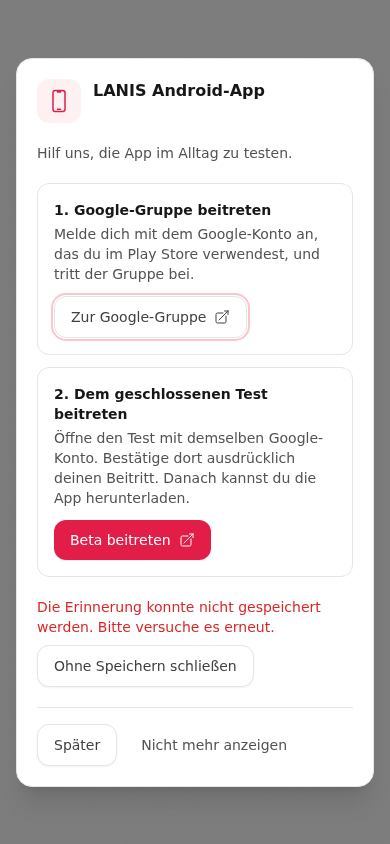
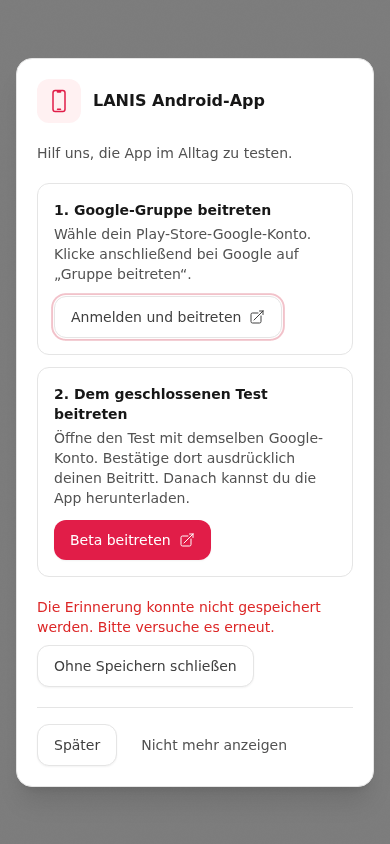
Add compact beta help card and route joining through Google account selection

diff --git a/src/components/beta/AndroidBeta.tsx b/src/components/beta/AndroidBeta.tsx
@@ -2,12 +2,12 @@ import React, { useCallback, useEffect, useRef, useState } from 'react';
 import { DevicePhoneMobileIcon, ArrowTopRightOnSquareIcon } from '@heroicons/react/24/outline';
 import { useAuth } from '../../contexts/AuthContext';
 import { androidBetaAPI, AndroidBetaState } from '../../services/api';
-import { betaPrompt, isAndroidBrowser } from '../../utils/androidBeta';
+import { betaPrompt, isAndroidBrowser, googleGroupJoinUrl } from '../../utils/androidBeta';
 
 const GROUP_URL = 'https://groups.google.com/g/lanis-beta/about';
 const JOIN_URL = 'https://play.google.com/apps/testing/de.joancode.lanis';
 
-export default function AndroidBeta() {
+export default function AndroidBeta({ manual = false }: { manual?: boolean }) {
   const { token } = useAuth();
   const [state, setState] = useState<AndroidBetaState | null>(null);
   const [error, setError] = useState('');
@@ -40,15 +40,15 @@ export default function AndroidBeta() {
   }, [load, open]);
 
   useEffect(() => {
-    if (!eligible || !state?.available) { setOpen(false); return; }
-    if (open || locallyClosed.current || !betaPrompt(state)) return;
+    if ((!manual && !eligible) || !state?.available) { setOpen(false); return; }
+    if (manual || open || locallyClosed.current || !betaPrompt(state)) return;
     const timer = window.setInterval(() => {
       const pwa = document.querySelector('pwa-install') as (HTMLElement & { isDialogHidden?: boolean }) | null;
       if (pwa?.isDialogHidden === false || document.visibilityState !== 'visible' || document.documentElement.classList.contains('onboarding-active') || document.querySelector('[role="dialog"], [role="alertdialog"], dialog[open], [aria-modal="true"]')) return;
       setOpen(true);
     }, 1500);
     return () => window.clearInterval(timer);
-  }, [eligible, state, open]);
+  }, [manual, eligible, state, open]);
 
   useEffect(() => {
     const node = dialog.current;
@@ -56,9 +56,9 @@ export default function AndroidBeta() {
     const previous = document.activeElement as HTMLElement | null;
     node.showModal();
     // Only recruitment cooldown is recorded, never group membership or Play enrollment.
-    if (token) void androidBetaAPI.change(token, 'presented').catch(() => setError('Die Erinnerung konnte nicht gespeichert werden. Bitte versuche „Später“ erneut.'));
+    if (token && !manual) void androidBetaAPI.change(token, 'presented').catch(() => setError('Die Erinnerung konnte nicht gespeichert werden. Bitte versuche „Später“ erneut.'));
     return () => { node.close(); previous?.focus(); };
-  }, [open, token]);
+  }, [open, token, manual]);
 
   function closeLocally() {
     locallyClosed.current = true;
@@ -82,8 +82,8 @@ export default function AndroidBeta() {
     <ol className="space-y-3">
       <li className="rounded-xl border border-surface-200 p-4 dark:border-surface-700">
         <h3 className="text-sm font-semibold">1. Google-Gruppe beitreten</h3>
-        <p className="mt-1 text-sm text-surface-600 dark:text-surface-400">Melde dich mit dem Google-Konto an, das du im Play Store verwendest, und tritt der Gruppe bei.</p>
-        <a className="btn btn-secondary mt-3 inline-flex items-center gap-2" href={state?.group_url || GROUP_URL} target="_blank" rel="noopener noreferrer">Zur Google-Gruppe<ArrowTopRightOnSquareIcon className="h-4 w-4" aria-hidden="true" /></a>
+        <p className="mt-1 text-sm text-surface-600 dark:text-surface-400">Wähle dein Play-Store-Google-Konto. Klicke anschließend bei Google auf „Gruppe beitreten“.</p>
+        <a className="btn btn-secondary mt-3 inline-flex items-center gap-2" href={googleGroupJoinUrl(state?.group_url || GROUP_URL)} target="_blank" rel="noopener noreferrer">Anmelden und beitreten<ArrowTopRightOnSquareIcon className="h-4 w-4" aria-hidden="true" /></a>
       </li>
       <li className="rounded-xl border border-surface-200 p-4 dark:border-surface-700">
         <h3 className="text-sm font-semibold">2. Dem geschlossenen Test beitreten</h3>
@@ -94,5 +94,17 @@ export default function AndroidBeta() {
     {error && <div role="alert" className="space-y-2 text-sm text-red-600 dark:text-red-400"><p>{error}</p><button type="button" className="btn btn-secondary" onClick={closeLocally}>Ohne Speichern schließen</button></div>}
     <div className="flex flex-wrap gap-2 border-t border-surface-200 pt-4 dark:border-surface-700"><button className="btn btn-secondary" disabled={busy} onClick={() => void dismiss('later')}>Später</button><button className="btn btn-ghost" disabled={busy} onClick={() => void dismiss('dismiss')}>Nicht mehr anzeigen</button></div>
   </div>;
-  return open ? <dialog ref={dialog} aria-labelledby="beta-dialog-title" onCancel={event => { event.preventDefault(); if (error) closeLocally(); else void dismiss('later'); }} className="m-auto max-h-[90dvh] w-[calc(100%-2rem)] max-w-md overflow-y-auto rounded-2xl border border-surface-200 bg-white p-5 text-surface-900 shadow-xl backdrop:bg-black/50 dark:border-surface-700 dark:bg-surface-900 dark:text-surface-100 sm:p-6">{content}</dialog> : null;
+  const popup = open ? <dialog ref={dialog} aria-labelledby="beta-dialog-title" onCancel={event => { event.preventDefault(); if (error) closeLocally(); else void dismiss('later'); }} className="m-auto max-h-[90dvh] w-[calc(100%-2rem)] max-w-md overflow-y-auto rounded-2xl border border-surface-200 bg-white p-5 text-surface-900 shadow-xl backdrop:bg-black/50 dark:border-surface-700 dark:bg-surface-900 dark:text-surface-100 sm:p-6">{content}</dialog> : null;
+  if (!manual) return popup;
+  return <>
+    <section className="card" aria-labelledby="beta-help-title">
+      <h3 id="beta-help-title" className="item-title">LANIS Android-App</h3>
+      <p className="mt-1 text-sm text-surface-500 dark:text-surface-400">Teste die Android-App.</p>
+      <button type="button" className="btn btn-secondary mt-4" disabled={!state?.available} onClick={() => { setError(''); setOpen(true); }}>Beta ansehen</button>
+      {!state && !error && <p role="status" className="mt-2 text-sm text-surface-500">Wird geladen…</p>}
+      {state && !state.available && <p className="mt-2 text-sm text-surface-500">Noch nicht verfügbar.</p>}
+      {error && !open && <p role="alert" className="mt-2 text-sm text-red-600 dark:text-red-400">{error} <button type="button" className="underline" onClick={() => void load()}>Erneut versuchen</button></p>}
+    </section>
+    {popup}
+  </>;
 }

diff --git a/src/components/settings/Settings.tsx b/src/components/settings/Settings.tsx
@@ -51,6 +51,7 @@ import { usePwaInstall } from '../../contexts/PwaInstallContext';
 import TimetableSettings from './TimetableSettings';
 import VertretungsplanSettings from './VertretungsplanSettings';
 import AgentsSettings from './AgentsSettings';
+import AndroidBeta from '../beta/AndroidBeta';
 import DashboardSettings from './DashboardSettings';
 import SettingsSwitch from './SettingsSwitch';
 import {
@@ -1237,6 +1238,8 @@ const Settings: React.FC = () => {
 
         </>
         )}
+
+        {section === 'help' && !isDemo && <AndroidBeta manual />}
 
         {/* App installieren */}
         {section === 'help' && (canInstall || installAvailability === 'installed') && (

diff --git a/src/utils/androidBeta.ts b/src/utils/androidBeta.ts
@@ -4,3 +4,8 @@ export function isAndroidBrowser(userAgent: string, capacitor?: { isNativePlatfo
 export function betaPrompt(state: { available: boolean; invitation_due: boolean }): 'invitation' | null {
   return state.available && state.invitation_due ? 'invitation' : null;
 }
+
+// Google hosts account selection and joining; LANIS receives no Google credentials.
+export function googleGroupJoinUrl(groupUrl: string): string {
+  return `https://accounts.google.com/AccountChooser?hl=de&continue=${encodeURIComponent(groupUrl)}`;
+}

diff --git a/docs/screenshots/android-beta/README.md b/docs/screenshots/android-beta/README.md
@@ -1,15 +1,12 @@
 # Android beta screenshot gallery
 
-Current dashboard-only UI after the requested copy cleanup. Actual AndroidBeta
-and PrivacyPolicy components use the production stylesheet with deterministic
-authentication/API fixtures. These are component captures, not signed-in production
-sessions or proof that the closed release is live. No real account or Google
-membership/enrollment data was changed.
-
-Mobile: 390 × 844, light. Desktop: 1440 × 1000, dark (privacy retains its light
-styling and is cropped to the relevant disclosure). The error dialog is scrolled
-to its error/local-close action when needed. Keyboard focus outlines are visible.
-The beta block was removed from Settings, so its old screenshots were removed.
+Current UI with the compact App & Hilfe card and Google account-selection action.
+Actual components use production CSS with deterministic auth/API fixtures. These
+are component captures, not signed-in production sessions, membership confirmation
+or proof that the closed release is live. Mobile: 390 × 844 light; desktop:
+1440 × 1000 dark. Privacy retains its existing light styling. Card and privacy
+images crop to their relevant section; popup images retain the viewport.
+No real account or Google enrollment data was changed.
 
 ## Dashboard invitation
 
@@ -17,15 +14,33 @@ The beta block was removed from Settings, so its old screenshots were removed.
 | --- | --- |
 | ![Dashboard invitation, mobile](invitation-mobile.png) | ![Dashboard invitation, desktop](invitation-desktop.png) |
 
-## Save failure and local close fallback
+## Save failure and local close
 
 | Mobile | Desktop |
 | --- | --- |
-| ![Save failure and local close fallback, mobile](invitation-save-error-mobile.png) | ![Save failure and local close fallback, desktop](invitation-save-error-desktop.png) |
+| ![Save failure and local close, mobile](invitation-save-error-mobile.png) | ![Save failure and local close, desktop](invitation-save-error-desktop.png) |
 
-## Privacy disclosure (unchanged by this cleanup)
+## App & Hilfe: compact entry card
 
 | Mobile | Desktop |
 | --- | --- |
-| ![Privacy disclosure (unchanged by this cleanup), mobile](privacy-mobile.png) | ![Privacy disclosure (unchanged by this cleanup), desktop](privacy-desktop.png) |
+| ![App & Hilfe: compact entry card, mobile](help-card-mobile.png) | ![App & Hilfe: compact entry card, desktop](help-card-desktop.png) |
+
+## Popup opened manually from App & Hilfe
+
+| Mobile | Desktop |
+| --- | --- |
+| ![Popup opened manually from App & Hilfe, mobile](help-popup-mobile.png) | ![Popup opened manually from App & Hilfe, desktop](help-popup-desktop.png) |
+
+## App & Hilfe: recruitment unavailable
+
+| Mobile | Desktop |
+| --- | --- |
+| ![App & Hilfe: recruitment unavailable, mobile](help-disabled-mobile.png) | ![App & Hilfe: recruitment unavailable, desktop](help-disabled-desktop.png) |
+
+## Privacy disclosure
+
+| Mobile | Desktop |
+| --- | --- |
+| ![Privacy disclosure, mobile](privacy-mobile.png) | ![Privacy disclosure, desktop](privacy-desktop.png) |
 

diff --git a/docs/ANDROID_BETA.md b/docs/ANDROID_BETA.md
@@ -13,9 +13,18 @@ Backend configuration:
 After dashboard load, eligible Android browsers receive an invitation when due,
 excluding Capacitor and waiting for onboarding/other dialogs. Showing it starts a
 seven-day account-backed cooldown, as does Später. Nicht mehr anzeigen suppresses
-future invitations. The beta UI appears only in the dashboard invitation; it is
-not shown in Settings. Disabled recruitment or a failed preference load shows no
-invitation. The dialog keeps the two joining steps and brief introductory copy.
+future invitations. Settings → App & Hilfe has a compact card whose Beta ansehen
+button opens the same popup manually, including after permanent dismissal. It
+does not reset that preference or automatically open the dialog. The card gates
+its button on availability and supports loading/error/retry states. Disabled
+recruitment or a failed preference load shows no automatic invitation.
+
+The first action opens Google AccountChooser with the configured group/about
+page as its return URL. This avoids the group page's generic sign-in link, which
+returns to the Groups home page. LANIS receives no Google credentials or OAuth
+callback. Google still requires explicit confirmation to join the group. Legacy
+/group/.../subscribe redirects to the private conversations page; /g/.../subscribe
+returns 404, so neither is used.
 
 Users sign into Google with their Play Store account, join the group, then
 explicitly join the CLOSED test with the same account before downloading. Some
@@ -33,7 +42,8 @@ Validation: `npm test`, `npm run test:beta`, `npm run build`, and after building
 `CHROME_PATH=/path/to/chromium npm run test:beta:browser`. Browser coverage includes
 390px/1440px dark layouts, both URLs, no email field, activation gating, native
 exclusion, cooldown/dismissal, save-failure local close, preference-load recovery
-and onboarding/modal arbitration. Screenshots go to `/tmp`.
+and onboarding/modal arbitration. Manual-card checks cover dismissal preservation,
+focus return, availability gating and failed-load recovery. Screenshots go to `/tmp`.
 
 The normal build → Cloudflare PR-preview pipeline is authorized. Production and
 backend deployments remain outside scope. Local checks are recorded in the PR.
